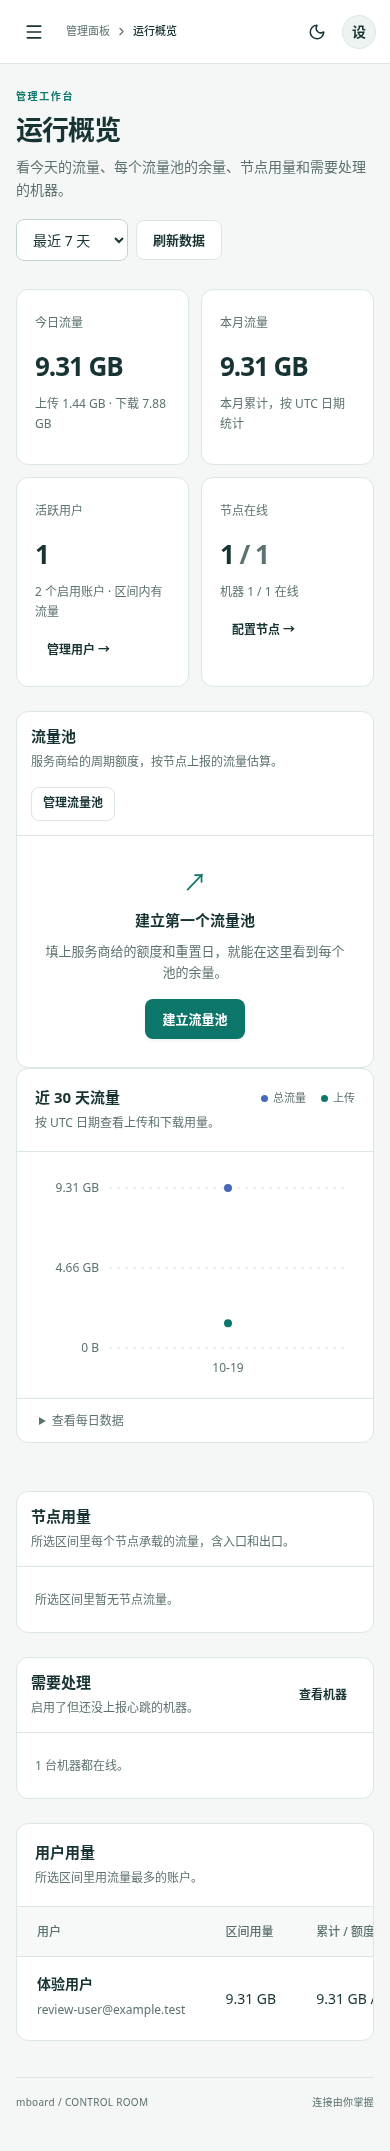
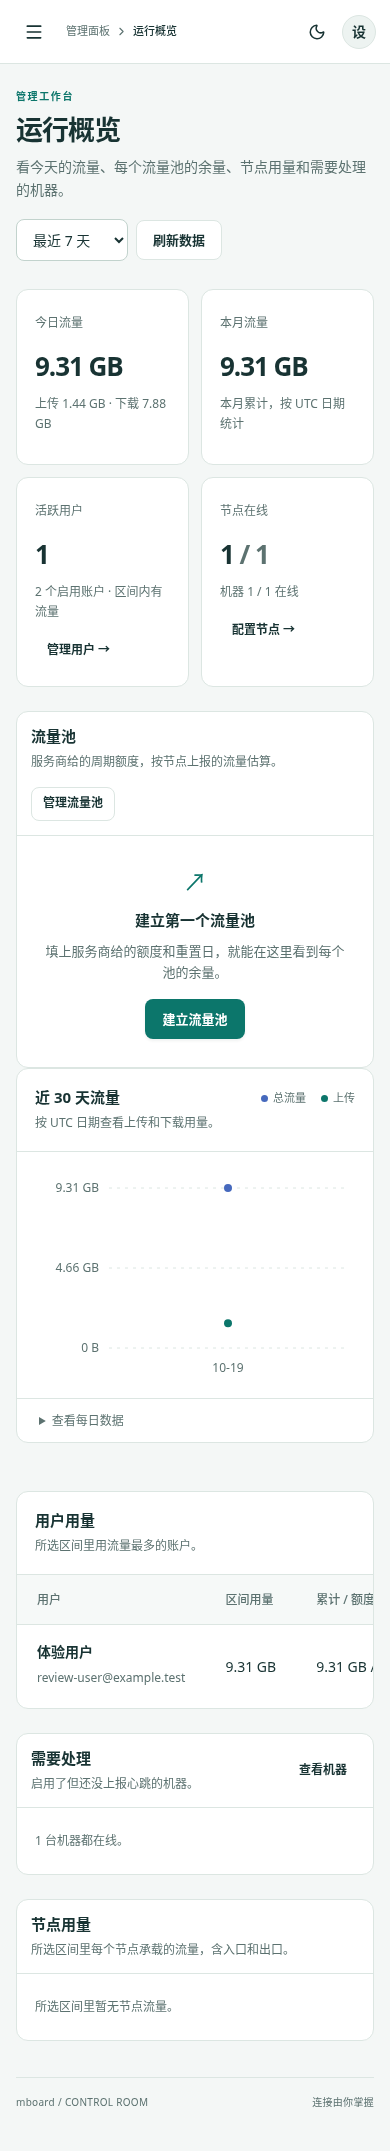
style: keep the wide node table full width and commit chart resizes in frame
The user ranking fits the left column next to the attention list, while the
seven-column node table spans the page. The chart now commits a new viewBox
in the same frame as its resize, so axis labels never render at a stale
scale.

diff --git a/src/web/AdminPages.tsx b/src/web/AdminPages.tsx
@@ -740,91 +740,47 @@ function OverviewPage({ onNavigate }: { onNavigate: (page: string) => void }) {
                   description="按 UTC 日期查看上传和下载用量。"
                 />
                 <Card>
-                  <div className="card-header mb-custom-toolbar">
+                  <div className="card-header">
                     <div>
-                      <h2>节点用量</h2>
-                      <p>所选区间里每个节点承载的流量，含入口和出口。</p>
+                      <h2>用户用量</h2>
+                      <p>所选区间里用流量最多的账户。</p>
                     </div>
-                    {data.top_nodes.length > 10 && (
-                      <Button
-                        variant="secondary"
-                        size="small"
-                        onClick={() => setShowAllNodes((value) => !value)}
-                      >
-                        {showAllNodes
-                          ? "收起"
-                          : `查看全部 ${data.top_nodes.length} 个`}
-                      </Button>
-                    )}
                   </div>
-                  {data.top_nodes.length ? (
+                  {data.top_users.length ? (
                     <div className="table-wrap">
                       <table className="data-table">
                         <thead>
                           <tr>
-                            <th>节点</th>
-                            <th>服务器</th>
-                            <th>状态</th>
                             <th>用户</th>
-                            <th>上传</th>
-                            <th>下载</th>
-                            <th>合计</th>
+                            <th>区间用量</th>
+                            <th>累计 / 额度</th>
                           </tr>
                         </thead>
                         <tbody>
-                          {(showAllNodes
-                            ? data.top_nodes
-                            : data.top_nodes.slice(0, 10)
-                          ).map((node) => {
-                            const total = node.upload_bytes + node.download_bytes;
-                            const sum = data.top_nodes.reduce(
-                              (value, item) =>
-                                value + item.upload_bytes + item.download_bytes,
-                              0,
-                            );
-                            return (
-                              <tr key={node.id}>
-                                <td>
-                                  <strong>{node.name}</strong>
-                                  {node.parent_name && (
-                                    <div className="mb-custom-meta">
-                                      入口 {node.parent_name}
-                                    </div>
-                                  )}
-                                </td>
-                                <td className="mb-custom-meta">
-                                  {node.machine_names.length
-                                    ? node.machine_names.join(" / ")
-                                    : "待关联"}
-                                </td>
-                                <td>
-                                  <Badge
-                                    tone={node.online ? "success" : "warning"}
-                                  >
-                                    {node.online ? "在线" : "等待心跳"}
-                                  </Badge>
-                                </td>
-                                <td>{count(node.users)}</td>
-                                <td>{formatBytes(node.upload_bytes)}</td>
-                                <td>{formatBytes(node.download_bytes)}</td>
-                                <td>
-                                  <div className="mb-custom-share">
-                                    <span>{formatBytes(total)}</span>
-                                    <ShareBar
-                                      share={sum > 0 ? total / sum : 0}
-                                    />
-                                  </div>
-                                </td>
-                              </tr>
-                            );
-                          })}
+                          {data.top_users.map((user) => (
+                            <tr key={user.id}>
+                              <td>
+                                <strong>{user.name}</strong>
+                                <div className="mb-custom-meta">
+                                  {user.email}
+                                </div>
+                              </td>
+                              <td>{formatBytes(user.bytes)}</td>
+                              <td>
+                                {formatBytes(user.total_bytes)}
+                                {user.quota_bytes > 0
+                                  ? ` / ${formatBytes(user.quota_bytes)}`
+                                  : " · 按实际用量累计"}
+                              </td>
+                            </tr>
+                          ))}
                         </tbody>
                       </table>
                     </div>
                   ) : (
                     <div className="card-body">
                       <p className="mb-custom-meta">
-                        所选区间里暂无节点流量。
+                        所选区间里暂无账户流量。
                       </p>
                     </div>
                   )}
@@ -875,54 +831,98 @@ function OverviewPage({ onNavigate }: { onNavigate: (page: string) => void }) {
                     </div>
                   )}
                 </Card>
-                <Card>
-                  <div className="card-header">
-                    <div>
-                      <h2>用户用量</h2>
-                      <p>所选区间里用流量最多的账户。</p>
-                    </div>
-                  </div>
-                  {data.top_users.length ? (
-                    <div className="table-wrap">
-                      <table className="data-table">
-                        <thead>
-                          <tr>
-                            <th>用户</th>
-                            <th>区间用量</th>
-                            <th>累计 / 额度</th>
-                          </tr>
-                        </thead>
-                        <tbody>
-                          {data.top_users.map((user) => (
-                            <tr key={user.id}>
-                              <td>
-                                <strong>{user.name}</strong>
-                                <div className="mb-custom-meta">
-                                  {user.email}
-                                </div>
-                              </td>
-                              <td>{formatBytes(user.bytes)}</td>
-                              <td>
-                                {formatBytes(user.total_bytes)}
-                                {user.quota_bytes > 0
-                                  ? ` / ${formatBytes(user.quota_bytes)}`
-                                  : " · 按实际用量累计"}
-                              </td>
-                            </tr>
-                          ))}
-                        </tbody>
-                      </table>
-                    </div>
-                  ) : (
-                    <div className="card-body">
-                      <p className="mb-custom-meta">
-                        所选区间里暂无账户流量。
-                      </p>
-                    </div>
-                  )}
-                </Card>
               </div>
             </div>
+            <Card>
+              <div className="card-header mb-custom-toolbar">
+                <div>
+                  <h2>节点用量</h2>
+                  <p>所选区间里每个节点承载的流量，含入口和出口。</p>
+                </div>
+                {data.top_nodes.length > 10 && (
+                  <Button
+                    variant="secondary"
+                    size="small"
+                    onClick={() => setShowAllNodes((value) => !value)}
+                  >
+                    {showAllNodes
+                      ? "收起"
+                      : `查看全部 ${data.top_nodes.length} 个`}
+                  </Button>
+                )}
+              </div>
+              {data.top_nodes.length ? (
+                <div className="table-wrap">
+                  <table className="data-table">
+                    <thead>
+                      <tr>
+                        <th>节点</th>
+                        <th>服务器</th>
+                        <th>状态</th>
+                        <th>用户</th>
+                        <th>上传</th>
+                        <th>下载</th>
+                        <th>合计</th>
+                      </tr>
+                    </thead>
+                    <tbody>
+                      {(showAllNodes
+                        ? data.top_nodes
+                        : data.top_nodes.slice(0, 10)
+                      ).map((node) => {
+                        const total = node.upload_bytes + node.download_bytes;
+                        const sum = data.top_nodes.reduce(
+                          (value, item) =>
+                            value + item.upload_bytes + item.download_bytes,
+                          0,
+                        );
+                        return (
+                          <tr key={node.id}>
+                            <td>
+                              <strong>{node.name}</strong>
+                              {node.parent_name && (
+                                <div className="mb-custom-meta">
+                                  入口 {node.parent_name}
+                                </div>
+                              )}
+                            </td>
+                            <td className="mb-custom-meta">
+                              {node.machine_names.length
+                                ? node.machine_names.join(" / ")
+                                : "待关联"}
+                            </td>
+                            <td>
+                              <Badge
+                                tone={node.online ? "success" : "warning"}
+                              >
+                                {node.online ? "在线" : "等待心跳"}
+                              </Badge>
+                            </td>
+                            <td>{count(node.users)}</td>
+                            <td>{formatBytes(node.upload_bytes)}</td>
+                            <td>{formatBytes(node.download_bytes)}</td>
+                            <td>
+                              <div className="mb-custom-share">
+                                <span>{formatBytes(total)}</span>
+                                <ShareBar
+                                  share={sum > 0 ? total / sum : 0}
+                                />
+                              </div>
+                            </td>
+                          </tr>
+                        );
+                      })}
+                    </tbody>
+                  </table>
+                </div>
+              ) : (
+                <div className="card-body">
+                  <p className="mb-custom-meta">
+                    所选区间里暂无节点流量。
+                  </p>
+                </div>
+              )}
+            </Card>
           </>
         )}
       </ResourceView>

diff --git a/src/web/TrafficChart.tsx b/src/web/TrafficChart.tsx
@@ -1,4 +1,5 @@
 import { useId, useLayoutEffect, useRef, useState } from "react";
+import { flushSync } from "react-dom";
 import type { TrafficPoint } from "./types";
 import { formatBytes } from "./api";
 import { Card, EmptyState } from "./ui";
@@ -26,9 +27,11 @@ export function TrafficChart({
     const svg = svgRef.current;
     if (!svg) return;
     const measure = () =>
-      setWidth(Math.max(240, svg.getBoundingClientRect().width));
+      setWidth(Math.max(240, Math.round(svg.getBoundingClientRect().width)));
     measure();
-    const observer = new ResizeObserver(measure);
+    // Commit the new viewBox in the same frame as the resize, so labels never
+    // render one frame at a stale scale.
+    const observer = new ResizeObserver(() => flushSync(measure));
     observer.observe(svg);
     return () => observer.disconnect();
   }, [Boolean(data.length)]);
